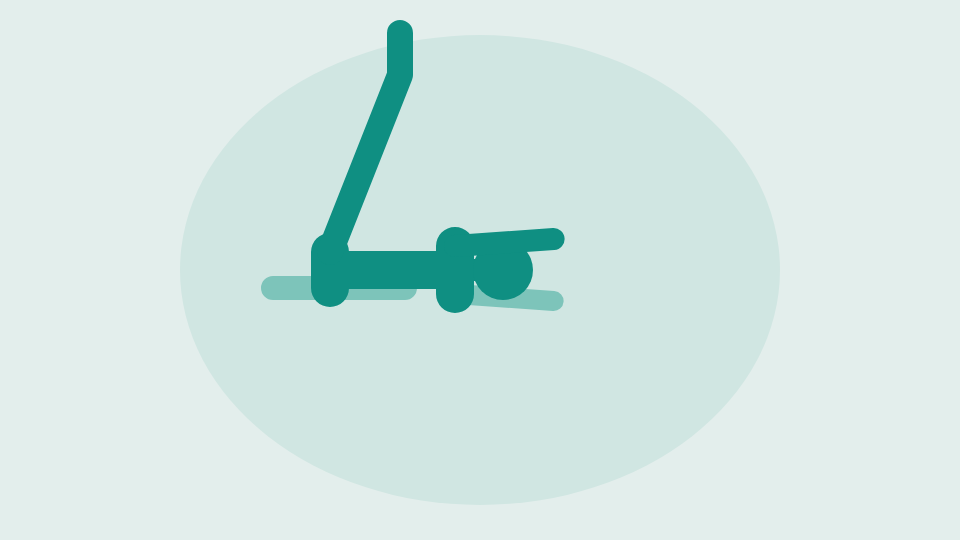
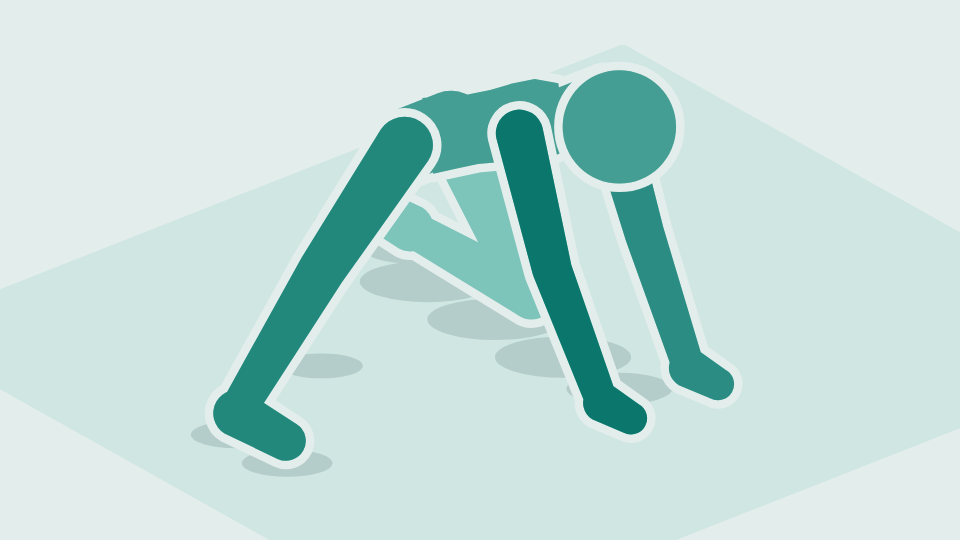
feat: add 3D animations for Seated Shoulder Extension and Half Kneeling Frog Stretch; update exercise references in exercises.ts and rig3d.test.ts
Claude-Session: https://claude.ai/code/session_01Rr2sE6jaf8tamBXGGqpp6g

Changed region(s): [[0.1875, 0.0296, 0.7812, 0.8889]]

diff --git a/src/data/exercise-animations-3d.ts b/src/data/exercise-animations-3d.ts
@@ -3453,3 +3453,128 @@ export const SEATED_STRADDLE_SIDE_BEND_3D: Clip3D = {
     ...alongArc(1800, STRADDLE_STEPS, (t) => straddleAt(1 - t)),
   ],
 };
+
+/**
+ * The lean, between upright and as far over as brings the shoulders nearest the hand at `hand`,
+ * that leaves the arms straight: the most upright one, as in the kneeling wrist stretch. Positive
+ * leans tip forward, negative back.
+ */
+const straightArmLean = (body: (lean: number) => Pose3, hand: Vec3, direction: 1 | -1 = 1): number => {
+  const gap = (lean: number) => distance(solvePose(body(lean)).rightArm[0], hand);
+  let nearest = 0;
+  for (let tip = 0; Math.abs(tip) <= 150; tip += 2 * direction) if (gap(tip) < gap(nearest)) nearest = tip;
+  let [upright, over] = [0, nearest];
+  const reach = 0.998 * ARM_REACH;
+  for (let i = 0; i < 40; i++) {
+    const tip = (upright + over) / 2;
+    if (gap(tip) > reach) upright = tip;
+    else over = tip;
+  }
+  return (upright + over) / 2;
+};
+
+// --- Seated shoulder extension: sitting with the knees bent and the hands planted behind, fingers back, the hips lift, move forward away from the hands and sit back down ---
+
+/** The hands stay planted behind, shoulder-width apart, the fingers pointing back. */
+const SHOULDER_EXT_HANDS: Vec3 = [-105, WRIST_Y, SKELETON.shoulder];
+/** The feet stay planted flat ahead, hip-width apart, the knees bent and pointing up. */
+const SHOULDER_EXT_FEET_X = 150;
+/** How far forward the hips sit down again, away from the hands. */
+const SHOULDER_EXT_SHIFT = 55;
+/** How high the hips lift at the top of their arc: just clear of the floor. */
+const SHOULDER_EXT_LIFT = 14;
+/** Sitting in the stretch the chest lifts: the upper back arches a little, and the head stays in line. */
+const SHOULDER_EXT_ARCH = -14;
+
+/**
+ * This far through a move from sitting back by the hands (0) to sitting forward in the stretch (1).
+ * The hips travel in one low arc, coming off the floor as they set off, highest halfway, and
+ * settling back down as they arrive, so they never drag along it; going back the other way is the
+ * same arc in reverse. Lifting, moving and sitting one after the other looked mechanical. The body
+ * tips back as far as keeps the arms straight to the planted hands, so the further forward the hips
+ * sit, the further the arms reach back behind the body.
+ */
+const shoulderExtensionAt = (t: number): Pose3 => {
+  const up = Math.sin(Math.PI * t);
+  // Moving starts just after the hips leave the floor and ends just before they're down.
+  const forward = smooth(Math.min(1, Math.max(0, (t - 0.08) / 0.84)));
+  const pelvis: Vec3 = [SHOULDER_EXT_SHIFT * forward, SIT_PELVIS_Y + SHOULDER_EXT_LIFT * up, 0];
+  const hand = (side: 1 | -1): Pin => ({ at: [SHOULDER_EXT_HANDS[0], SHOULDER_EXT_HANDS[1], side * SHOULDER_EXT_HANDS[2]], toward: [-1, 0, 0], pole: [-1, 0, side * 0.2] });
+  const foot = (side: 1 | -1): Pin => ({ at: [SHOULDER_EXT_FEET_X, ANKLE_Y, side * SKELETON.hip], toward: [1, 0, 0], pole: [0.3, 1, 0] });
+  const body = (lean: number): Pose3 => ({
+    pelvis,
+    lean,
+    spine: { flex: SHOULDER_EXT_ARCH * forward },
+    neck: { flex: -SHOULDER_EXT_ARCH * forward },
+    pins: { rightHand: hand(1), leftHand: hand(-1), rightFoot: foot(1), leftFoot: foot(-1) },
+  });
+  return body(straightArmLean(body, SHOULDER_EXT_HANDS, -1));
+};
+const SHOULDER_EXT_BACK = shoulderExtensionAt(0);
+const SHOULDER_EXT_FORWARD = shoulderExtensionAt(1);
+const SHOULDER_EXT_STEPS = 18;
+
+export const SEATED_SHOULDER_EXTENSION_3D: Clip3D = {
+  view: '3d',
+  // As for reverse tabletop: from the side, a little in front and above, the hips' lift and move
+  // and the arms reaching back behind the body are flat on the screen.
+  camera: { yaw: 16, pitch: 10 },
+  highlight: ['rightArm', 'leftArm'],
+  stillFrame: 1 + SHOULDER_EXT_STEPS,
+  keyframes: [
+    { ms: 0, pose: SHOULDER_EXT_BACK },
+    { ms: 600, pose: SHOULDER_EXT_BACK },
+    ...alongArc(2200, SHOULDER_EXT_STEPS, shoulderExtensionAt),
+    { ms: 3500, pose: SHOULDER_EXT_FORWARD },
+    ...alongArc(2200, SHOULDER_EXT_STEPS, (t) => shoulderExtensionAt(1 - t)),
+  ],
+};
+
+// --- Half kneeling frog stretch: on hands and one knee, the other leg straight out to the side, the hips rock back ---
+
+/**
+ * The straight leg's foot sits flat on the floor out to the side, level with the planted knee. The
+ * hips swing on a circle around that knee as they rock, and the foot is on that circle's axis, so it
+ * stays the same distance from the hip the whole way and the leg stays straight.
+ */
+const HALF_FROG_FOOT: Vec3 = [WRIST_KNEE_X, ANKLE_Y, SKELETON.hip + Math.sqrt((0.998 * LEG_REACH) ** 2 - SKELETON.thigh ** 2)];
+/** The hips start a little forward of the knee and rock back this far round it. */
+const HALF_FROG_THIGH = { forward: -8, back: 42 };
+
+const halfFrogAt = (t: number): Pose3 => {
+  const thigh = radians(90 + mix(HALF_FROG_THIGH.forward, HALF_FROG_THIGH.back, t));
+  const pelvis: Vec3 = [WRIST_KNEE_X + SKELETON.thigh * Math.cos(thigh), ANKLE_Y + SKELETON.thigh * Math.sin(thigh), 0];
+  const hand = (side: 1 | -1): Pin => ({ at: [WRIST_HANDS[0], WRIST_HANDS[1], side * WRIST_HANDS[2]], toward: [1, 0, 0], pole: [-1, 0, side * 0.3] });
+  const body = (lean: number): Pose3 => ({
+    pelvis,
+    lean,
+    neck: { flex: 12 },
+    pins: {
+      // The kneecap faces forward and up, the toes forward.
+      rightFoot: { at: HALF_FROG_FOOT, toward: [1, 0, 0], pole: [0.3, 1, 0] },
+      leftFoot: pinVia([pelvis[0], pelvis[1], -SKELETON.hip], [WRIST_KNEE_X, ANKLE_Y, -SKELETON.hip], [WRIST_KNEE_X - SKELETON.shin, ANKLE_Y, -SKELETON.hip], [-1, 0, 0]),
+      rightHand: hand(1),
+      leftHand: hand(-1),
+    },
+  });
+  return body(straightArmLean(body, [WRIST_HANDS[0], WRIST_HANDS[1], WRIST_HANDS[2]]));
+};
+const HALF_FROG_FORWARD = halfFrogAt(0);
+const HALF_FROG_BACK = halfFrogAt(1);
+const HALF_FROG_STEPS = 14;
+
+export const HALF_KNEELING_FROG_STRETCH_3D: Clip3D = {
+  view: '3d',
+  // From in front of the straight leg and above: the leg lies out to the side across the screen,
+  // and the hips' rock back shows beyond it.
+  camera: { yaw: 50, pitch: 28 },
+  highlight: ['rightLeg'],
+  stillFrame: 1 + HALF_FROG_STEPS,
+  keyframes: [
+    { ms: 0, pose: HALF_FROG_FORWARD },
+    { ms: 400, pose: HALF_FROG_FORWARD },
+    ...alongArc(1800, HALF_FROG_STEPS, halfFrogAt),
+    { ms: 1200, pose: HALF_FROG_BACK },
+    ...alongArc(1600, HALF_FROG_STEPS, (t) => halfFrogAt(1 - t)),
+  ],
+};

diff --git a/src/lib/rig3d.test.ts b/src/lib/rig3d.test.ts
@@ -48,6 +48,8 @@ import {
   WRIST_ROCKS_3D,
   ELEPHANT_WALK_3D,
   SEATED_STRADDLE_SIDE_BEND_3D,
+  SEATED_SHOULDER_EXTENSION_3D,
+  HALF_KNEELING_FROG_STRETCH_3D,
   LYING_WINDSHIELD_WIPER_HOLD_3D,
   REVERSE_TABLETOP_3D,
   KNEELING_WRIST_STRETCH_3D,
@@ -2380,5 +2382,61 @@ describe('3D clips', () => {
         }
       }
     });
+  });
+
+  it('lifts the hips off the floor to move them forward away from the hands, sits down in the stretch, and lifts again to go back, the knees bent and the hands and feet planted, in the seated shoulder extension', () => {
+    const poses = samples(SEATED_SHOULDER_EXTENSION_3D).map(solvePose);
+    const [first] = poses;
+    const floor = first.spine[0][1];
+    let lifted = false;
+    for (const { spine, rightArm, leftArm, rightLeg, leftLeg } of poses) {
+      expect(distance(rightArm[2], first.rightArm[2])).toBeLessThan(0.5);
+      expect(distance(leftArm[2], first.leftArm[2])).toBeLessThan(0.5);
+      expect(distance(rightLeg[2], first.rightLeg[2])).toBeLessThan(0.5);
+      expect(distance(leftLeg[2], first.leftLeg[2])).toBeLessThan(0.5);
+      expect(angleAt(rightArm[0], rightArm[1], rightArm[2])).toBeGreaterThan(170);
+      // The knees stay bent, pointing up.
+      expect(angleAt(rightLeg[0], rightLeg[1], rightLeg[2])).toBeLessThan(110);
+      expect(rightLeg[1][1]).toBeGreaterThan(rightLeg[0][1]);
+      // The hips are either down on the floor where they sit or lifted clear of it: they only move
+      // forward or back while they're up, never dragging along the floor.
+      const height = spine[0][1] - floor;
+      expect(height).toBeGreaterThan(-0.5);
+      if (height > 10) lifted = true;
+      // Only just off the floor, not pressed up.
+      expect(height).toBeLessThan(20);
+    }
+    expect(lifted).toBe(true);
+    for (let i = 1; i < poses.length; i++) {
+      const moved = Math.abs(poses[i].spine[0][0] - poses[i - 1].spine[0][0]);
+      if (moved > 0.5) expect(Math.min(poses[i].spine[0][1], poses[i - 1].spine[0][1]) - floor).toBeGreaterThan(1);
+    }
+    const forward = solvePose(SEATED_SHOULDER_EXTENSION_3D.keyframes[SEATED_SHOULDER_EXTENSION_3D.stillFrame].pose);
+    expect(forward.spine[0][0] - first.spine[0][0]).toBeGreaterThan(45);
+    expect(forward.spine[0][1]).toBeCloseTo(floor, 1);
+    // The arms reach further back behind the body: the hands are further behind the shoulders.
+    expect(forward.rightArm[0][0] - forward.rightArm[2][0]).toBeGreaterThan(first.rightArm[0][0] - first.rightArm[2][0] + 20);
+    expect(SEATED_SHOULDER_EXTENSION_3D.keyframes[0].pose.pins!.rightHand!.toward![0]).toBe(-1);
+    expect(longestHold(SEATED_SHOULDER_EXTENSION_3D)).toBeGreaterThanOrEqual(3000);
+    expect(new Set(drawOrders(SEATED_SHOULDER_EXTENSION_3D)).size).toBe(1);
+  });
+
+  it('keeps the side leg straight with its foot planted and the knee and hands planted while the hips rock back, in the half kneeling frog stretch', () => {
+    const poses = samples(HALF_KNEELING_FROG_STRETCH_3D).map(solvePose);
+    const [first] = poses;
+    for (const { rightLeg, leftLeg, rightArm, leftArm } of poses) {
+      expect(distance(rightLeg[2], first.rightLeg[2])).toBeLessThan(0.5);
+      expect(angleAt(rightLeg[0], rightLeg[1], rightLeg[2])).toBeGreaterThan(170);
+      expect(distance(leftLeg[1], first.leftLeg[1])).toBeLessThan(0.5);
+      expect(distance(rightArm[2], first.rightArm[2])).toBeLessThan(0.5);
+      expect(distance(leftArm[2], first.leftArm[2])).toBeLessThan(0.5);
+      expect(angleAt(rightArm[0], rightArm[1], rightArm[2])).toBeGreaterThan(165);
+    }
+    // The leg lies out to the side, and the hips rock back behind the knee.
+    expect(first.rightLeg[2][2]).toBeGreaterThan(150);
+    const hips = poses.map(({ spine }) => spine[0][0] - first.leftLeg[1][0]);
+    expect(Math.max(...hips)).toBeGreaterThan(10);
+    expect(Math.min(...hips)).toBeLessThan(-55);
+    expect(new Set(drawOrders(HALF_KNEELING_FROG_STRETCH_3D)).size).toBe(1);
   });
 });

diff --git a/src/data/exercises.ts b/src/data/exercises.ts
@@ -24,6 +24,7 @@ import {
   FLOOR_ANGELS_3D,
   FROG_ROCKS_3D,
   FROG_STRETCH_3D,
+  HALF_KNEELING_FROG_STRETCH_3D,
   HORSE_STANCE_3D,
   KNEELING_WRIST_STRETCH_3D,
   KNIGHT_STRETCH_3D,
@@ -42,6 +43,7 @@ import {
   RESTING_COSSACK_SQUAT_3D,
   REVERSE_TABLETOP_3D,
   SEATED_PIKE_STRETCH_3D,
+  SEATED_SHOULDER_EXTENSION_3D,
   SEATED_STRADDLE_SIDE_BEND_3D,
   SQUAT_TO_STAND_3D,
   STANDING_FORWARD_FOLD_3D,
@@ -56,7 +58,6 @@ import {
   DOWNWARD_FACING_DOG_TO_COBRA,
   FIGURE_FOUR_STRETCH,
   FINGER_TENDON_GLIDES,
-  HALF_KNEELING_FROG_STRETCH,
   HALF_SPINAL_TWIST,
   HALF_TWISTED_LIZARD,
   HIP_CIRCLES,
@@ -74,7 +75,6 @@ import {
   REVERSE_SCORPION,
   SCAP_MOBILIZATION,
   SEATED_HIP_INTERNAL_ROTATION,
-  SEATED_SHOULDER_EXTENSION,
   SHOULDER_PASS_THROUGHS,
   SIDE_LYING_EXTERNAL_ROTATION,
   SLEEPER_STRETCH,
@@ -239,7 +239,7 @@ const ALL_EXERCISES: Exercise[] = [
       'Rock back and forth or hold, then switch sides',
     ],
     photo: require('@/assets/images/exercises/half-kneeling-frog-stretch.png'),
-    animation: HALF_KNEELING_FROG_STRETCH,
+    animation: HALF_KNEELING_FROG_STRETCH_3D,
     twoSided: true,
   },
   {
@@ -1135,7 +1135,7 @@ const ALL_EXERCISES: Exercise[] = [
       'Lift your chest and stop when you feel it in the front of your shoulders, then hold',
     ],
     photo: require('@/assets/images/exercises/seated-shoulder-extension.png'),
-    animation: SEATED_SHOULDER_EXTENSION,
+    animation: SEATED_SHOULDER_EXTENSION_3D,
     oneMinuteOnly: true,
   },
   {

diff --git a/README.md b/README.md
@@ -175,10 +175,12 @@ Moved to the new engine:
 | Wrist rocks | Library | `WRIST_ROCKS_3D` |
 | Elephant walk | Library | `ELEPHANT_WALK_3D` |
 | Seated straddle side bend | Library | `SEATED_STRADDLE_SIDE_BEND_3D` |
+| Seated shoulder extension | Library | `SEATED_SHOULDER_EXTENSION_3D` |
+| Half kneeling frog stretch | Library | `HALF_KNEELING_FROG_STRETCH_3D` |
 
 Still on the old engine (clip names in `exercise-animations.ts`). Where a clip needs something the new engine doesn't have yet, it's noted.
 
-All ten flexibility tests are on the new engine. The last six to move (knee to wall, the two seated hip rotations, sit and reach, knee to chest and straight leg raise) haven't been checked on a device yet, so their old clips are still in `exercise-animations.ts`; delete them once they have. The same goes for the three 90 to 90 clips in the library (`NINETY_TO_NINETY_ROTATIONS` has to stay either way: windshield wipers with knee lift is built on it), and for the two pancake clips (`PANCAKE_UP` has to stay either way: the seated straddle side bend is built on it), and for the active straight leg raise, ankle mobilization, the behind the back chest opener, back lying reverse pigeon, belly down foot splay, the five squats (bottom squat, bottom squat rotation, squat to stand, Cossack squat and resting Cossack squat), Blackburn, butterfly, cobra to prayer, downward facing dog, prayer pose, puppy pose, lying knee hug, lying hamstring stretch, seated pike stretch, three legged downward facing dog, standing forward fold, kneeling wrist stretch, floor angels, reverse tabletop, knight stretch, horse stance, the lying windshield wiper hold, frog stretch, frog rocks, knight to hamstring, couch stretch, pyramid stretch, wrist rocks, elephant walk and the seated straddle side bend.
+All ten flexibility tests are on the new engine. The last six to move (knee to wall, the two seated hip rotations, sit and reach, knee to chest and straight leg raise) haven't been checked on a device yet, so their old clips are still in `exercise-animations.ts`; delete them once they have. The same goes for the three 90 to 90 clips in the library (`NINETY_TO_NINETY_ROTATIONS` has to stay either way: windshield wipers with knee lift is built on it), and for the two pancake clips (`PANCAKE_UP` has to stay either way: the seated straddle side bend is built on it), and for the active straight leg raise, ankle mobilization, the behind the back chest opener, back lying reverse pigeon, belly down foot splay, the five squats (bottom squat, bottom squat rotation, squat to stand, Cossack squat and resting Cossack squat), Blackburn, butterfly, cobra to prayer, downward facing dog, prayer pose, puppy pose, lying knee hug, lying hamstring stretch, seated pike stretch, three legged downward facing dog, standing forward fold, kneeling wrist stretch, floor angels, reverse tabletop, knight stretch, horse stance, the lying windshield wiper hold, frog stretch, frog rocks, knight to hamstring, couch stretch, pyramid stretch, wrist rocks, elephant walk, the seated straddle side bend, seated shoulder extension and the half kneeling frog stretch.
 
 Library (`src/data/exercises.ts`):
 
@@ -190,7 +192,6 @@ Library (`src/data/exercises.ts`):
 | Downward facing dog to cobra | `DOWNWARD_FACING_DOG_TO_COBRA` | |
 | Figure four stretch | `FIGURE_FOUR_STRETCH` | |
 | Finger tendon glides | `FINGER_TENDON_GLIDES` | the hand view |
-| Half kneeling frog stretch | `HALF_KNEELING_FROG_STRETCH` | |
 | Half spinal twist | `HALF_SPINAL_TWIST` | |
 | Half-twisted lizard | `HALF_TWISTED_LIZARD` | |
 | Hip circles | `HIP_CIRCLES` | |
@@ -208,7 +209,6 @@ Library (`src/data/exercises.ts`):
 | Reverse scorpion | `REVERSE_SCORPION` | |
 | Scap mobilization | `SCAP_MOBILIZATION` | |
 | Seated hip internal rotation | `SEATED_HIP_INTERNAL_ROTATION` | mini band |
-| Seated shoulder extension | `SEATED_SHOULDER_EXTENSION` | |
 | Shoulder pass-throughs | `SHOULDER_PASS_THROUGHS` | |
 | Side-lying external rotation | `SIDE_LYING_EXTERNAL_ROTATION` | dumbbell |
 | Sleeper stretch | `SLEEPER_STRETCH` | |
